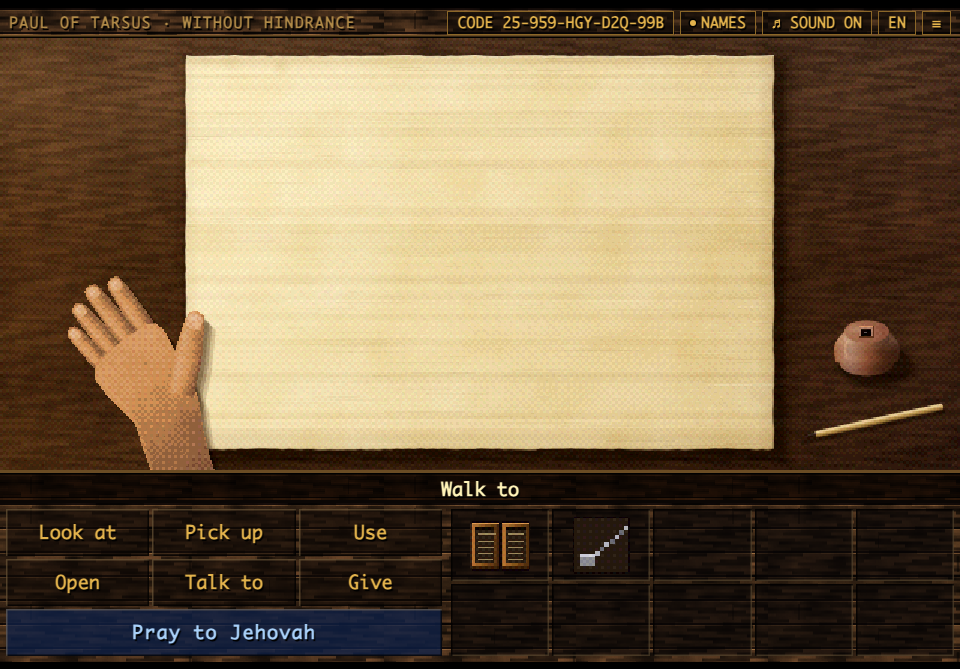
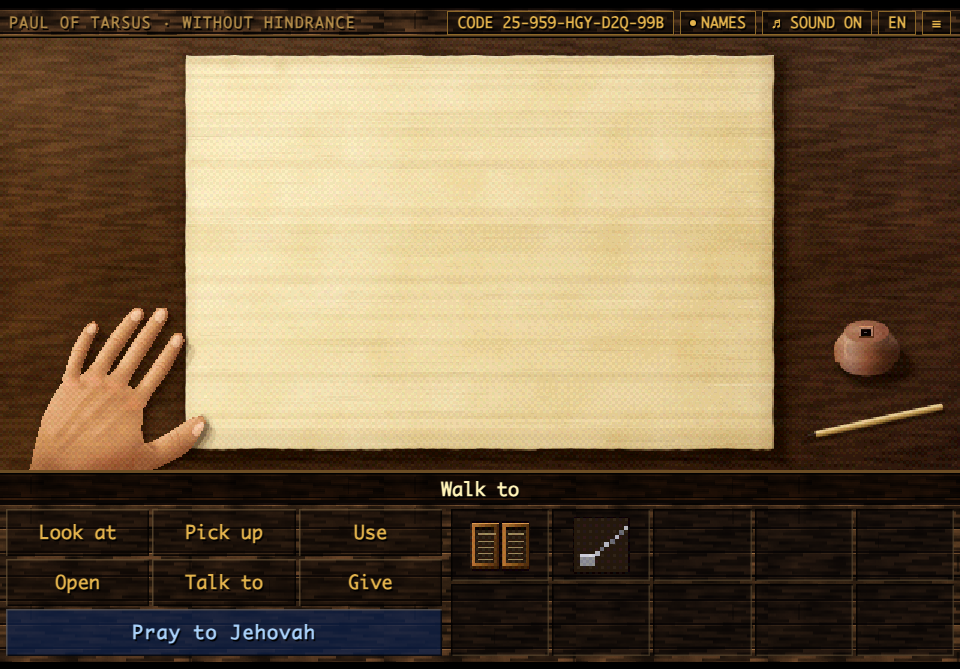
Chapter Twenty-Five: improve rendering of Paul's hand on the Philemon sheet

Changed region(s): [[0.0312, 0.4185, 0.25, 0.7175]]

diff --git a/levels/chapter25.js b/levels/chapter25.js
@@ -201,12 +201,12 @@ const SEATP25=LG.POS.benches.map(b=>({y:b.foot,shape(){},foot:[b.x0,b.foot-4,b.x
    shadow to the right and down: its outline a little uneven and frayed where the fibers end, its fibers running across only, as strips
    of their own tone and fine threads that stop and start; inside the box of the writing (x 72..248, y 13..131) the threads are fewer and
    fainter and no stain lies, so that nothing competes with the letters. Nothing is ruled.
-   Paul's left hand holds the sheet still (paulHand25): seen from above, the back of the hand toward us, it lies over the sheet's lower
-   left corner, the forearm coming in from the lower edge of the picture, the fingers relaxed and pointing away to the upper left, onto
-   the wood beside the sheet; the thumb lies on the sheet along its left margin, parallel to the edge, pointing up, its nail toward us.
-   So the sheet's left edge shows only above the thumb and its lower edge only to the right of the forearm: neither crosses anything, and
-   the hand stays out of the box of the writing. No arm reaches across the sheet. The hand is placed by hand, each part at its own size,
-   and set in a short scale of skin tones made from Paul's own, with the backdrops' dither, lit from the upper left.
+   Paul's left hand holds the sheet still (paulHand25): seen from above, the back of the hand toward us, the forearm coming in diagonally
+   from the lower left, the fingers relaxed and angled up and right on the wood just beside the sheet, and the thumb reaching onto the
+   sheet's lower left corner with its nail in three-quarter profile. So the sheet's left edge shows only above the thumb and its lower
+   edge only to the right of the thumb: neither crosses anything, and the hand stays out of the box of the writing. No arm reaches across
+   the sheet. The hand is painted with smooth splines, lit from the upper left, and set in a short scale of skin tones made from Paul's
+   own with the backdrops' ordered dither.
    At the sheet's lower right, on the table: the inkwell, a squat pot of red clay seen a little from above, its mouth a small square with
    the ink dark in it (ink25); and the reed pen lying beside it, slanting, its cut point toward the sheet, wet with ink, crossing nothing
    (pen25). Nothing is tied or sealed.
@@ -285,59 +285,202 @@ function pen25(g){const a=[266,133.4],b=[314,123],w=1.15,dx=b[0]-a[0],dy=b[1]-a[
   stroke(g,[p0[0]-nx*.5,p0[1]-ny*.5,b[0]-nx*.5,b[1]-ny*.5],'rgba(255,244,210,.45)',.4);
   /* the cut: tapering to its point, dark with ink */
   poly(g,[p0[0]+nx,p0[1]+ny,a[0],a[1],p0[0]-nx,p0[1]-ny],'#2a1a0e');poly(g,[p0[0]-nx*.6+ux*.4,p0[1]-ny*.6+uy*.4,a[0]+ux*.8,a[1]+uy*.8,p0[0]-nx*.2+ux*1.4,p0[1]-ny*.2+uy*1.4],'rgba(120,110,120,.5)')}
-/* paulHand25: Paul's left hand on the sheet's lower left corner, seen from above, the back of the hand toward us (see above). Each part is
-   drawn in its own frame, along its own direction, at its own size: KN25 the knuckles (the little finger first) with each finger's
-   direction and length and width, HB25 the back of the hand and the forearm in one, TB25 the thumb (its root, its tip, its widths). Painted
-   in greys as light from the upper left, then set in the skin's tones (tones25) */
-const KN25=[[34.6,109.2,-.68,-.73,17,5.8],[39.1,105.6,-.65,-.76,22,6.4],[44,101.7,-.61,-.79,24,6.8],[49.1,97.7,-.57,-.82,21.5,6.8]],
-  HB25=[31.4,113.6,32,108.6,34.6,106,39,102.4,44,98.6,48.6,95.6,52,95.4,54.4,97.4,57,102,59.4,107,62,111.6,64.4,116.4,66,120.4,67.6,131,69.6,139,72.4,147,
-    51.4,147,47.4,136,45.2,129,41,124.4,36,119.6],
-  TB25={x0:60.2,y0:117,x1:65.6,y1:91,w0:9.6,w1:6.6};
-function paulHand25(g){const K=ramp(P.look&&P.look.skin||PAUL_BASE.skin),S=[];
-  /* nine tones from the skin's darkest to its lightest, each between two of its ramp */
-  for(let i=0;i<9;i++){const t=i/8*4,k=Math.min(3,Math.floor(t));S.push(mix(K[4-k],K[3-k],t-k))}
-  const[c,q]=mk(320*HR,144*HR);q.scale(HR,HR);
-  const GV=v=>{const k=Math.round(clamp(v,0,1)*255);return`rgb(${k},${k},${k})`};
-  /* a finger or the thumb in its own frame: from its root at x, y along ux, uy, len long, w wide at the root and wt at the tip */
-  const part=(x,y,ux,uy,len,w,wt,fn)=>{q.save();q.translate(x,y);q.rotate(Math.atan2(ux,-uy));fn(len,w,wt);q.restore()},
-    capsule=(len,w,wt)=>{const P=[-w/2,2,-w/2,-len*.4,-wt/2,-len+wt*.55,-wt*.36,-len+wt*.16,0,-len,wt*.36,-len+wt*.16,wt/2,-len+wt*.55,w/2,-len*.4,w/2,2];poly(q,P);return P};
-  /* the shadows of the hand on the sheet and the wood, soft, to the right and down */
-  const sil=(G,col)=>{poly(G,HB25,col);for(const[x,y,ux,uy,l,w]of KN25){G.save();G.translate(x,y);G.rotate(Math.atan2(ux,-uy));poly(G,[-w/2,2,-w/2,-l*.4,-w*.4,-l+1,0,-l,w*.4,-l+1,w/2,-l*.4,w/2,2],col);G.restore()}
-    const T=TB25;G.save();G.translate(T.x0,T.y0);G.rotate(Math.atan2(T.x1-T.x0,-(T.y1-T.y0)));const L=Math.hypot(T.x1-T.x0,T.y1-T.y0);poly(G,[-T.w0/2,4,-T.w0/2,-L*.4,-T.w1/2,-L+2,0,-L,T.w1/2,-L+2,T.w0/2,-L*.4,T.w0/2,4],col);G.restore()};
-  for(const[dx,dy,a]of[[3.4,3.8,.22],[2.2,2.6,.3],[1.2,1.4,.3]])comp(g,'multiply',a,()=>{g.save();g.translate(dx,dy);sil(g,'#5a4234');g.restore()});
-  /* the fingers, little finger first: each round across, lit along its left side, a fold over its middle joint, its nail at the tip */
-  KN25.forEach(([x,y,ux,uy,len,w],i)=>part(x,y,ux,uy,len,w,w*.84,(L,W,Wt)=>{const P=capsule(L,W,Wt);
-    clipTo(q,()=>poly(q,P),()=>{q.fillStyle=lg(q,-W/2,0,W/2,0,[GV(.4),GV(.68),GV(.52),GV(.32),GV(.18)]);q.fillRect(-W,-L-1,W*2,L+4);
-      q.fillStyle=lg(q,0,-L,0,0,['rgba(0,0,0,.14)','rgba(0,0,0,0)','rgba(0,0,0,0)','rgba(0,0,0,.08)']);q.fillRect(-W,-L-1,W*2,L+4);
-      for(const k of[.36,.62])sline25(q,[-W*.32,-L*k+.3,0,-L*k-.4,W*.3,-L*k+.3],'rgba(0,0,0,.18)',.5);
-      poly(q,[-Wt*.32,-L+4.4,-Wt*.34,-L+1.8,-Wt*.18,-L+.8,Wt*.18,-L+.8,Wt*.34,-L+1.8,Wt*.32,-L+4.4,0,-L+4.9],GV(.8));R(q,-Wt*.2,-L+1.4,Wt*.26,1.6,GV(.96));
-      R(q,-W/2,-L,.8,L,'rgba(0,0,0,.25)');R(q,W/2-.8,-L,.8,L,'rgba(0,0,0,.3)');tex(q,'mott',.16,-W,-L,W*2,L,'overlay',.5)})}));
-  /* the back of the hand and the forearm, over the roots of the fingers: lit at the upper left and darker toward the wrist and the arm's
-     shaded side; the knuckles catching the light, two soft sinews running back from them */
-  poly(q,HB25,GV(.46));clipTo(q,()=>poly(q,HB25),()=>{q.fillStyle=lg(q,34,98,70,140,[GV(.66),GV(.54),GV(.4),GV(.24)]);q.fillRect(28,92,48,56);
-    q.fillStyle=lg(q,0,120,0,147,['rgba(0,0,0,0)','rgba(0,0,0,.12)']);q.fillRect(28,120,48,28);
-    for(const[x,y,ux,uy]of KN25)pool(q,x-ux*1.6+.6,y-uy*1.6+.4,2.8,2.2,'#ffffff',.24,'source-over');
-    for(const[x,y,ux,uy]of KN25.slice(1,3))sline25(q,[x-ux*2.2+.8,y-uy*2.2,x+5.6,y+9,x+8.6,y+18],'rgba(0,0,0,.07)',1.4);
-    sline25(q,[33,112,38,119,44,126,48,136,51,147],'rgba(255,255,255,.14)',1.6);ao(q,58,96,14,52,'r',.22);tex(q,'mott',.18,28,92,48,56,'overlay',.5)});
-  /* the thumb, lying on the sheet along its margin: round across, lit on its left; its nail toward us; two folds of its joint */
-  const T=TB25,TL=Math.hypot(T.x1-T.x0,T.y1-T.y0);
-  part(T.x0,T.y0,(T.x1-T.x0)/TL,(T.y1-T.y0)/TL,TL,T.w0,T.w1,(L,W,Wt)=>{const P=capsule(L,W,Wt);
-    clipTo(q,()=>poly(q,P),()=>{q.fillStyle=lg(q,-W/2,0,W/2,0,[GV(.44),GV(.74),GV(.58),GV(.38),GV(.22)]);q.fillRect(-W,-L-1,W*2,L+6);
-      q.fillStyle=lg(q,0,0,0,5,['rgba(0,0,0,0)','rgba(0,0,0,.16)']);q.fillRect(-W,0,W*2,6);
-      for(const k of[.42,.48])sline25(q,[-W*.34,-L*k+.4,0,-L*k-.4,W*.32,-L*k+.4],'rgba(0,0,0,.16)',.5);
-      poly(q,[-Wt*.36,-L+6,-Wt*.38,-L+2.4,-Wt*.2,-L+1,Wt*.2,-L+1,Wt*.38,-L+2.4,Wt*.36,-L+6,0,-L+6.6],GV(.84));R(q,-Wt*.22,-L+1.8,Wt*.28,2.2,GV(.98));
-      sline25(q,[-Wt*.36,-L+6,0,-L+6.8,Wt*.36,-L+6],'rgba(0,0,0,.2)',.5);
-      R(q,W/2-.9,-L,.9,L+4,'rgba(0,0,0,.28)');tex(q,'mott',.16,-W,-L,W*2,L+4,'overlay',.5)})});
-  tones25(c,q,S);g.drawImage(c,0,0,320,144)}
-/* sline25: a soft curve through its points */
-function sline25(g,p,c,w){g.beginPath();g.moveTo(p[0],p[1]);for(let i=2;i<p.length-2;i+=2){const mx=(p[i]+p[i+2])/2,my=(p[i+1]+p[i+3])/2;g.quadraticCurveTo(p[i],p[i+1],mx,my)}
-  g.lineTo(p[p.length-2],p[p.length-1]);g.strokeStyle=c;g.lineWidth=w;g.lineCap='round';g.stroke()}
-/* tones25: set a layer painted in greys into a short scale of colors, darkest first, with the backdrops' ordered dither, one cell to the
-   room pixel (as the narrator's scroll sets its hands). What is not painted stays clear */
-function tones25(c,g,pal){const w=c.width,h=c.height,im=g.getImageData(0,0,w,h),d=im.data,n=pal.length-1,Q=pal.map(hex);
-  for(let y=0,i=0;y<h;y++)for(let x=0;x<w;x++,i+=4){if(d[i+3]<128){d[i+3]=0;continue}d[i+3]=255;
-    const v=(d[i]*.3+d[i+1]*.59+d[i+2]*.11)/255*n,t=(BAYER[((y>>1)&3)*4+((x>>1)&3)]+.5)/16,p=Q[clamp(Math.floor(v+t),0,n)];d[i]=p[0];d[i+1]=p[1];d[i+2]=p[2]}
-  g.putImageData(im,0,0)}
+/* paulHand25: Paul's left hand resting naturally on the lower-left corner of the sheet, seen from above: forearm entering diagonally from
+   the lower-left, four relaxed fingers angled up-and-right on the wood just beside the sheet (staying left of x=62), and the thumb
+   reaching right over the sheet's lower-left corner (covering x=62, y=137 cleanly, clear of the writing at x=72) with its thumbnail in
+   3/4 profile. Painted in continuous greys with Catmull-Rom splines, lit from the upper-left window, then set in a 9-tone weathered skin
+   scale with the backdrops' ordered dither (as in shared/scroll.js) and grounded by dual-layer cast and contact shadows. */
+function spline25(g,p,closed){const n=p.length/2,P=i=>{i=closed?(i%n+n)%n:clamp(i,0,n-1);return[p[2*i],p[2*i+1]]};
+  g.beginPath();g.moveTo(p[0],p[1]);
+  for(let i=0;i<(closed?n:n-1);i++){const a=P(i-1),b=P(i),c=P(i+1),d=P(i+2);
+    g.bezierCurveTo(b[0]+(c[0]-a[0])/6,b[1]+(c[1]-a[1])/6,c[0]-(d[0]-b[0])/6,c[1]-(d[1]-b[1])/6,c[0],c[1])}
+  if(closed)g.closePath()}
+function blob25(g,p,c){spline25(g,p,1);if(c){g.fillStyle=c;g.fill()}}
+function sline25(g,p,c,w){spline25(g,p,0);g.strokeStyle=c;g.lineWidth=w||.5;g.lineCap='round';g.lineJoin='round';g.stroke()}
+/* build a smooth closed contour along a 4-point finger spine [mcp,pip,dip,tip] with phalanx widths [w0,wMid1,wPip,wMid2,wDip,wTip] */
+function finger25(sp,ws){const evalSp=t=>{const n=sp.length/2-1,u=clamp(t,0,1)*n,i=Math.min(n-1,Math.floor(u)),f=u-i,
+      P=k=>{k=clamp(k,0,n);return[sp[2*k],sp[2*k+1]]},p0=P(i-1),p1=P(i),p2=P(i+1),p3=P(i+2),f2=f*f,f3=f2*f;
+    return[.5*(2*p1[0]+(-p0[0]+p2[0])*f+(2*p0[0]-5*p1[0]+4*p2[0]-p3[0])*f2+(-p0[0]+3*p1[0]-3*p2[0]+p3[0])*f3),
+      .5*(2*p1[1]+(-p0[1]+p2[1])*f+(2*p0[1]-5*p1[1]+4*p2[1]-p3[1])*f2+(-p0[1]+3*p1[1]-3*p2[1]+p3[1])*f3)]},
+    evalW=t=>{const k=[0,.2,.44,.62,.78,.92],i=Math.max(0,Math.min(4,k.findIndex(v=>v>t)-1)),a=k[i],b=k[i+1];
+      return ws[i]+(ws[i+1]-ws[i])*clamp((t-a)/(b-a),0,1)},
+    fr=t=>{const p=evalSp(t),a=evalSp(Math.max(0,t-.02)),b=evalSp(Math.min(1,t+.02)),dx=b[0]-a[0],dy=b[1]-a[1],L=Math.hypot(dx,dy)||1;
+      /* normal points lower-right (+nx,+ny) so -n is upper-left (toward the window light) and +n is lower-right (shadow side) */
+      return{x:p[0],y:p[1],tx:dx/L,ty:dy/L,nx:-dy/L,ny:dx/L,w:evalW(t)}},
+    ts=[0,.14,.28,.44,.60,.74,.85],L=[],Rr=[];
+  for(const t of ts){const s=fr(t),hw=s.w*.5;L.push(s.x-s.nx*hw,s.y-s.ny*hw);Rr.unshift(s.x+s.nx*hw,s.y+s.ny*hw)}
+  const sEnd=fr(.85),tip=fr(1),rSide=sEnd.w*.5,rFwd=Math.hypot(tip.x-sEnd.x,tip.y-sEnd.y),dome=[];
+  for(const a of[-.35*Math.PI,0,.35*Math.PI]){const ca=Math.cos(a),sa=Math.sin(a);
+    dome.push(sEnd.x+tip.tx*rFwd*ca+tip.nx*rSide*sa,sEnd.y+tip.ty*rFwd*ca+tip.ny*rSide*sa)}
+  return{pts:[...L,...dome,...Rr],fr}}
+const FING25=[
+  /* little, ring, middle, index: matched to natural resting proportions, slight pinky bend & spacing on wood left of x=62 */
+  {sp:[23.2,115.2,25.8,106.4,28.8,99.8,32.0,95.0],w:[5.6,5.0,5.2,4.7,4.4,3.9],kn:[23.8,115.4]},
+  {sp:[31.0,113.8,37.5,103.3,43.0,95.6,47.2,90.4],w:[6.3,5.6,5.8,5.2,4.9,4.4],kn:[31.2,114.2]},
+  {sp:[38.2,116.2,45.6,104.6,51.2,96.2,55.0,90.0],w:[6.4,5.7,5.9,5.3,5.0,4.4],kn:[38.0,116.6]},
+  {sp:[45.0,121.8,52.2,112.0,57.1,104.4,60.1,98.6],w:[6.2,5.5,5.7,5.1,4.8,4.2],kn:[44.6,122.2]}];
+/* diagonal left forearm, tapered wrist, sleek ulnar edge, dorsum and deep sweeping thumb-index web */
+const PALM25=[7.4,149,9.8,143.6,11.2,137.4,12.6,131.6,14.6,125.2,17.8,119.2,21.6,114.2,27.2,112.6,34.4,113.6,41.8,117.4,47.4,124.0,
+  47.2,130.6,48.6,136.4,50.4,142.2,43.4,146.0,36.4,148.4,32.2,149];
+/* thumb: slender ~30 deg upward angle with natural proximal waist, covering sheet corner (62,137) cleanly; tip at x=68.3, clear of x=72 */
+const THUMB25=[46.0,136.8,51.9,133.8,57.7,130.4,62.8,127.3,66.8,126.1,68.3,127.6,67.4,130.8,65.0,134.7,62.1,138.1,
+  56.8,141.0,50.4,144.0,44.8,143.0];
+/* compact U-shaped interdigital skin webs tucked neatly at the finger roots */
+const WEBS25=[[25.8,114.2,27.2,112.2,29.0,112.4,29.2,114.6],[33.4,114.4,35.2,112.4,37.0,113.0,36.4,115.4],[40.6,117.8,42.8,116.0,44.4,117.4,43.0,119.8]];
+function paulHand25(g){
+  const base=P.look&&P.look.skin||PAUL_BASE.skin;
+  /* 9-tone weathered skin scale centered on Paul's skin, tempered for finish()'s 1.14 saturation boost */
+  const SKIN25=['#3b2016','#563222','#744731','#905e41','#aa7755',mix(base,'#c1906c',.45),'#d6a984','#e7c4a2','#f3dcc2'];
+  const W_=a=>`rgba(255,255,255,${a})`,K_=a=>`rgba(0,0,0,${a})`,GV=v=>{const k=Math.round(clamp(v,0,1)*255);return`rgb(${k},${k},${k})`};
+  const figs=FING25.map(f=>Object.assign({},f,finger25(f.sp,f.w)));
+  /* 1. Grounding shadows on wood and papyrus: soft directional cast shadow to lower-right + tight dark contact shadow under tips & thumb */
+  const sil=(G,col)=>{blob25(G,PALM25,col);for(const wb of WEBS25)blob25(G,wb,col);for(const f of figs)blob25(G,f.pts,col);blob25(G,THUMB25,col)};
+  for(const[dx,dy,a]of[[3.8,3.6,.13],[2.2,2.2,.20],[1.1,1.2,.26]])comp(g,'multiply',a,()=>{g.save();g.translate(dx,dy);sil(g,'#482e1d');g.restore()});
+  comp(g,'multiply',.38,()=>{
+    for(const f of figs){const t=f.fr(.92),m=f.fr(.68);
+      pool(g,t.x+1.0,t.y+1.2,f.w[5]*.66,f.w[5]*.54,'#321c10',.82,'source-over');
+      pool(g,m.x+1.3,m.y+1.5,f.w[4]*.65,f.w[4]*.56,'#442a1a',.40,'source-over')}
+    /* tight contact shadow under thumb pad and lower edge on the papyrus corner, fading cleanly well before x=72 */
+    sline25(g,[67.2,126.8,68.8,128.4,67.8,131.6,65.2,135.4,61.8,138.8,56.4,141.8,49.8,144.6],'rgba(50,30,16,.48)',2.1);
+    sline25(g,[68.0,127.4,69.4,129.0,68.4,132.4,65.8,136.4,62.2,139.8],'rgba(68,44,24,.22)',3.8);
+    /* contact shade along lower wrist/palm edge on the table */
+    sline25(g,[49.5,144.8,40.5,147.4,33.5,149.0],'rgba(42,24,12,.44)',3.2)});
+  /* 2. Unified alpha mask (mc), greyscale light map (q), subtle color tint layer (ac), and scratch blend canvas (lc) */
+  const[mc,mg]=mk(320*HR,144*HR),[c,q]=mk(320*HR,144*HR),[ac,ag]=mk(320*HR,144*HR),[lc,lq]=mk(320*HR,144*HR);
+  for(const ctx of[mg,q,ag,lq])ctx.scale(HR,HR);
+  sil(mg,'#ffffff');
+  /* 3. Continuous sculptural base light across forearm, wrist and dorsum (upper-left window light + subtle outer-ulnar turn-away roll) */
+  q.fillStyle=lg(q,12,109,56,148,[[0,GV(.52)],[.18,GV(.78)],[.52,GV(.60)],[.80,GV(.34)],[1,GV(.18)]]);
+  q.fillRect(0,80,76,72);
+  /* gentle tonal falloff back down the wrist/forearm toward bottom-left */
+  q.fillStyle=lg(q,44,113,6,148,[[0,W_(.06)],[.50,K_(0)],[.78,K_(.16)],[1,K_(.30)]]);
+  q.fillRect(0,80,76,72);
+  /* 4. Paint each finger with cylindrical upper-left lighting, soft creases and clean natural nails; feather root into dorsum */
+  figs.forEach((f,idx)=>{const r0=f.fr(0),r5=f.fr(.5),r1=f.fr(1),hw=f.w[0]*.55;
+    lq.save();lq.setTransform(1,0,0,1,0,0);lq.clearRect(0,0,lc.width,lc.height);lq.scale(HR,HR);
+    clipTo(lq,()=>spline25(lq,f.pts,1),()=>{
+      /* cylindrical light across finger: sunlit upper-left (-n), core shadow on lower-right (+n) */
+      lq.fillStyle=lg(lq,r5.x-r5.nx*hw*1.08,r5.y-r5.ny*hw*1.08,r5.x+r5.nx*hw*1.08,r5.y+r5.ny*hw*1.08,
+        [[0,GV(.52)],[.24,GV(.84-idx*.01)],[.50,GV(.64)],[.76,GV(.33)],[.93,GV(.18)],[1,GV(.23)]]);
+      lq.fillRect(14,80,56,50);
+      /* longitudinal arch: proximal phalanx bright, gently sloping down toward fingertip */
+      lq.fillStyle=lg(lq,r0.x,r0.y,r1.x,r1.y,[[0,K_(.05)],[.24,W_(.10)],[.56,W_(.03)],[.84,K_(.07)],[1,K_(.16)]]);
+      lq.fillRect(14,80,56,50);
+      /* subtle sunlit crest along upper-left ridge and PIP/DIP joint swells */
+      for(const t of[.22,.46,.68]){const s=f.fr(t);pool(lq,s.x-s.nx*s.w*.18,s.y-s.ny*s.w*.18,s.w*.34,s.w*.54,'#ffffff',.12,'source-over')}
+      for(const t of[.44,.74]){const s=f.fr(t);pool(lq,s.x-s.nx*s.w*.10,s.y-s.ny*s.w*.10,s.w*.34,s.w*.28,'#ffffff',t<.6?.14:.09,'source-over')}
+      /* delicate curved joint creases stopping cleanly inside the finger edges */
+      for(const[t,sp_,al]of[[.42,.28,.22],[.47,.22,.15],[.73,.22,.16]]){const s=f.fr(t),e=s.w*sp_;
+        const p=[s.x-s.nx*e-s.tx*.30,s.y-s.ny*e-s.ty*.30,s.x+s.tx*.30,s.y+s.ty*.30,s.x+s.nx*e-s.tx*.30,s.y+s.ny*e-s.ty*.30];
+        sline25(lq,p,K_(al),.46);sline25(lq,p.map((v,i)=>v+(i%2?s.ty:s.tx)*.46),W_(.10),.40)}
+      /* clean, smooth, lifelike fingernail inset inside rounded fingertip */
+      const nb=f.fr(.75),nm=f.fr(.84),nt=f.fr(.925),nw=f.w[5]*.34;
+      const np=[nb.x-nb.nx*nw*.82,nb.y-nb.ny*nw*.82,nm.x-nm.nx*nw,nm.y-nm.ny*nw,nt.x-nt.nx*nw*.52,nt.y-nt.ny*nw*.52,
+        nt.x+nt.tx*.24,nt.y+nt.ty*.24,nt.x+nt.nx*nw*.52,nt.y+nt.ny*nw*.52,nm.x+nm.nx*nw,nm.y+nm.ny*nw,nb.x+nb.nx*nw*.82,nb.y+nb.ny*nw*.82,
+        nb.x-nb.tx*.38,nb.y-nb.ty*.38];
+      clipTo(lq,()=>spline25(lq,np,1),()=>{
+        lq.fillStyle=lg(lq,nm.x-nm.nx*nw,nm.y-nm.ny*nw,nm.x+nm.nx*nw,nm.y+nm.ny*nw,[GV(.88),GV(.82),GV(.66),GV(.50)]);
+        lq.fillRect(14,80,56,50);
+        sline25(lq,[nm.x-nm.nx*nw*.40-nm.tx*.32,nm.y-nm.ny*nw*.40-nm.ty*.32,nt.x-nt.nx*nw*.20-nt.tx*.22,nt.y-nt.ny*nw*.20-nt.ty*.22],W_(.30),.65)});
+      sline25(lq,[nb.x-nb.nx*nw*.80,nb.y-nb.ny*nw*.80,nb.x-nb.tx*.40,nb.y-nb.ty*.40,nb.x+nb.nx*nw*.80,nb.y+nb.ny*nw*.80],K_(.24),.44);
+      blob25(ag,np,'rgba(238,212,196,.34)');
+      pool(ag,r1.x,r1.y,f.w[5]*.64,f.w[5]*.54,'#c45036',.13,'source-over');
+      const spip=f.fr(.44);pool(ag,spip.x,spip.y,f.w[2]*.50,f.w[2]*.40,'#c05034',.10,'source-over')});
+    const rFade=f.fr(.24);
+    lq.globalCompositeOperation='destination-in';
+    lq.fillStyle=lg(lq,r0.x,r0.y,rFade.x,rFade.y,['rgba(255,255,255,0)','rgba(255,255,255,1)']);
+    lq.fillRect(14,80,56,50);
+    lq.restore();
+    q.save();q.setTransform(1,0,0,1,0,0);q.drawImage(lc,0,0);q.restore();
+    /* soft dark ambient occlusion in the interdigital valleys */
+    if(idx<3){const nf=figs[idx+1],a=f.fr(.18),b=nf.fr(.18),mx=(a.x+b.x)/2,my=(a.y+b.y)/2;
+      pool(q,mx,my,2.3,2.5,'#000000',.26,'source-over')}});
+  /* 5. Sculpt dorsal anatomy across back of hand, knuckles, asymmetric extensor tendons, subtle dorsal vein and wrist */
+  /* broad sunlit dorsal plane over the metacarpals & luminous lower-center hand plane */
+  pool(q,34.2,129.6,12.5,9.2,'#ffffff',.23,'source-over');
+  pool(q,38.4,136.2,9.2,5.6,'#ffffff',.16,'source-over');
+  /* subtle ulnar styloid bone prominence & hollow on upper-left wrist */
+  pool(q,16.8,130.4,3.0,2.8,'#ffffff',.20,'source-over');
+  pool(q,20.2,132.4,3.2,2.6,'#000000',.10,'source-over');
+  /* first dorsal interosseous cushion between index metacarpal and thumb web */
+  pool(q,42.6,130.6,6.0,5.4,'#ffffff',.22,'source-over');
+  /* rich shadow turning under the lower palm/thenar and lower forearm */
+  pool(q,36.5,145.6,14.5,6.8,'#000000',.30,'source-over');
+  pool(q,15.5,145.2,10.5,7.4,'#000000',.26,'source-over');
+  /* natural asymmetric extensor tendons: prominent middle-finger tendon, merging ring tendon, softer shorter index tendon */
+  const tends=[
+    [[37.2,118.8,30.8,124.8,24.8,130.6,19.4,136.0],.075,.115,2.6],
+    [[31.0,116.4,26.0,122.4,21.6,128.4,17.8,133.4],.055,.085,2.3],
+    [[42.6,123.6,36.8,128.4,31.8,132.6],.045,.075,2.2]];
+  for(const[t,ka,wa,wd]of tends){
+    sline25(q,t.map((v,i)=>i%2?v+.9:v+.9),K_(ka),wd);
+    sline25(q,t.map((v,i)=>i%2?v-.6:v-.6),W_(wa),wd*.82)}
+  /* faint organic curved dorsal vein across lower-left dorsum (subtle older-man character, zero sharp line) */
+  sline25(q,[21.0,136.4,26.4,131.6,31.6,128.8],K_(.045),1.5);
+  sline25(q,[20.4,135.8,25.8,131.0,31.0,128.2],W_(.055),1.2);
+  /* soft shadow hollows between the metacarpal ridges */
+  pool(q,26.8,128.0,3.6,4.2,'#000000',.09,'source-over');
+  pool(q,33.2,126.4,3.6,4.0,'#000000',.08,'source-over');
+  /* four MCP knuckle planes catching soft warm light with natural rosy terracotta warmth & gentle hollows between them */
+  figs.forEach((f,i)=>{const[kx,ky]=f.kn;
+    pool(q,kx-.4,ky-.4,3.5,2.9,'#ffffff',i===0?.18:.24,'source-over');
+    pool(ag,kx,ky,4.2,3.6,'#c64c38',i>=2?.20:.16,'source-over');
+    if(i<3){const[nx,ny]=figs[i+1].kn;pool(q,(kx+nx)/2+.2,(ky+ny)/2+1.0,2.3,2.3,'#000000',.15,'source-over')}});
+  /* warm subsurface glow along the lower-right core-shadow terminator of the hand */
+  pool(ag,37.8,141.0,13.0,5.8,'#b84828',.11,'source-over');
+  /* 6. Paint the angled thumb in 3/4 side-top view onto scratch layer lq, softly dissolving its palm root */
+  lq.save();lq.setTransform(1,0,0,1,0,0);lq.clearRect(0,0,lc.width,lc.height);lq.scale(HR,HR);
+  clipTo(lq,()=>spline25(lq,THUMB25,1),()=>{
+    /* cylindrical light across thumb: sunlit upper edge facing window, rich core shadow along lower curve on papyrus */
+    lq.fillStyle=lg(lq,54,127,62,141,[[0,GV(.54)],[.22,GV(.84)],[.48,GV(.64)],[.76,GV(.32)],[.93,GV(.17)],[1,GV(.22)]]);
+    lq.fillRect(42,123,28,24);
+    /* gentle longitudinal roll from web out to rounded tip */
+    lq.fillStyle=lg(lq,46,139,69,126,[[0,K_(.08)],[.38,W_(.08)],[.74,W_(.04)],[1,K_(.16)]]);
+    lq.fillRect(42,123,28,24);
+    /* soft sunlit ridge along the upper-fleshy side of the thumb */
+    pool(lq,57.8,131.2,6.6,1.9,'#ffffff',.16,'source-over');
+    /* delicate curved IP joint creases across the thumb's dorsal face (curving toward lower-right outer side) */
+    for(const[x0,xm,x1,y0,y1,al]of[[58.6,59.6,59.6,130.8,135.6,.20],[56.6,57.6,57.6,132.0,136.6,.15]]){
+      const p=[x0,y0,xm,(y0+y1)/2,x1,y1];
+      sline25(lq,p,K_(al),.44);sline25(lq,p.map((v,i)=>i%2?v:v+.46),W_(.11),.38)}
+    /* crisp 3/4 side-profile thumbnail on the LOWER-RIGHT (dorsal/outer) side of the left thumb tip; upper-left is smooth fleshy pad skin */
+    const tn=[64.5,129.6,66.9,128.0,68.0,128.8,67.2,131.2,65.4,132.8,64.1,132.0,63.9,130.8];
+    clipTo(lq,()=>spline25(lq,tn,1),()=>{
+      lq.fillStyle=lg(lq,64.5,128.4,67.4,132.6,[GV(.88),GV(.80),GV(.62),GV(.44)]);
+      lq.fillRect(62,127,7,7);
+      blob25(lq,[64.8,129.6,66.6,128.4,67.2,129.3,66.1,130.4,64.7,130.4],W_(.34))});
+    /* clean soft cuticle groove along the left/upper-left edge of the nail */
+    sline25(lq,[64.7,129.5,63.9,130.8,64.2,132.1,65.4,132.8],K_(.30),.46);
+    blob25(ag,tn,'rgba(242,218,202,.40)');
+    pool(ag,65.4,130.2,3.2,2.6,'#c45234',.09,'source-over');
+    /* subtle warm papyrus bounce tucked along the lower edge of the thumb on the sheet */
+    pool(ag,65.2,133.8,3.4,1.3,'#e8cea0',.16,'source-over')});
+  /* dissolve the palm-side root of the thumb smoothly so it grows organically out of the hand */
+  lq.globalCompositeOperation='destination-out';
+  lq.fillStyle=rg(lq,45.6,139.2,8.8,['rgba(0,0,0,1)','rgba(0,0,0,.68)','rgba(0,0,0,0)']);
+  lq.fillRect(36,127,22,22);
+  lq.restore();
+  q.save();q.setTransform(1,0,0,1,0,0);q.drawImage(lc,0,0);q.restore();
+  /* soft dorsal web fold curving gently between index base and thumb */
+  sline25(q,[47.4,131.2,49.0,134.8,51.6,136.8],K_(.20),1.25);
+  sline25(q,[46.4,131.6,48.0,135.0,50.4,137.0],W_(.09),.95);
+  /* organic skin mottling & fine weathered grain */
+  tex(q,'mott',.14,0,80,76,70,'overlay',.55);tex(q,'grain',.05,0,80,76,70,'overlay',.5);
+  /* clip lighting & accent layers to the clean unified silhouette */
+  for(const ctx of[q,ag]){ctx.save();ctx.setTransform(1,0,0,1,0,0);ctx.globalCompositeOperation='destination-in';ctx.drawImage(mc,0,0);ctx.restore()}
+  /* 7. Smoothly map through the 9-tone weathered skin scale + gentle 20% micro-dither; bake()'s finish(12) then applies one crisp VGA dither */
+  const w=c.width,h=c.height,im=q.getImageData(0,0,w,h),d=im.data,ad=ag.getImageData(0,0,w,h).data,
+    P9=SKIN25.map(hex),n=P9.length-1;
+  for(let y=0,i=0;y<h;y++)for(let x=0;x<w;x++,i+=4){
+    if(d[i+3]<128){d[i+3]=0;continue}
+    const raw=clamp((d[i]*.3+d[i+1]*.59+d[i+2]*.11)/255,0,1)*n,
+      jit=((BAYER[((y>>1)&3)*4+((x>>1)&3)]+.5)/16-.5)*.22,
+      v=clamp(raw+jit,0,n),k=Math.min(n-1,Math.floor(v)),f=v-k,
+      a=P9[k],b=P9[k+1],aa=ad[i+3]/255;
+    let r=a[0]+(b[0]-a[0])*f,gg=a[1]+(b[1]-a[1])*f,bb=a[2]+(b[2]-a[2])*f;
+    if(aa>0){r=r*(1-aa)+ad[i]*aa;gg=gg*(1-aa)+ad[i+1]*aa;bb=bb*(1-aa)+ad[i+2]*aa}
+    d[i]=clamp(Math.round(r),0,255);d[i+1]=clamp(Math.round(gg),0,255);d[i+2]=clamp(Math.round(bb),0,255);d[i+3]=255}
+  q.putImageData(im,0,0);g.drawImage(c,0,0,320,144)}
 /* the lines on the sheet: the largest of four sizes at which every line fits the sheet */
 function fit25(g,lines,w,h){for(const z of[5.2,4.6,4,3.4]){g.font=FONT25(z);const lh=z*1.25,out=[];
     /* a reference stays in one piece: "(Philemon 18, 19)" is never broken after its comma */
